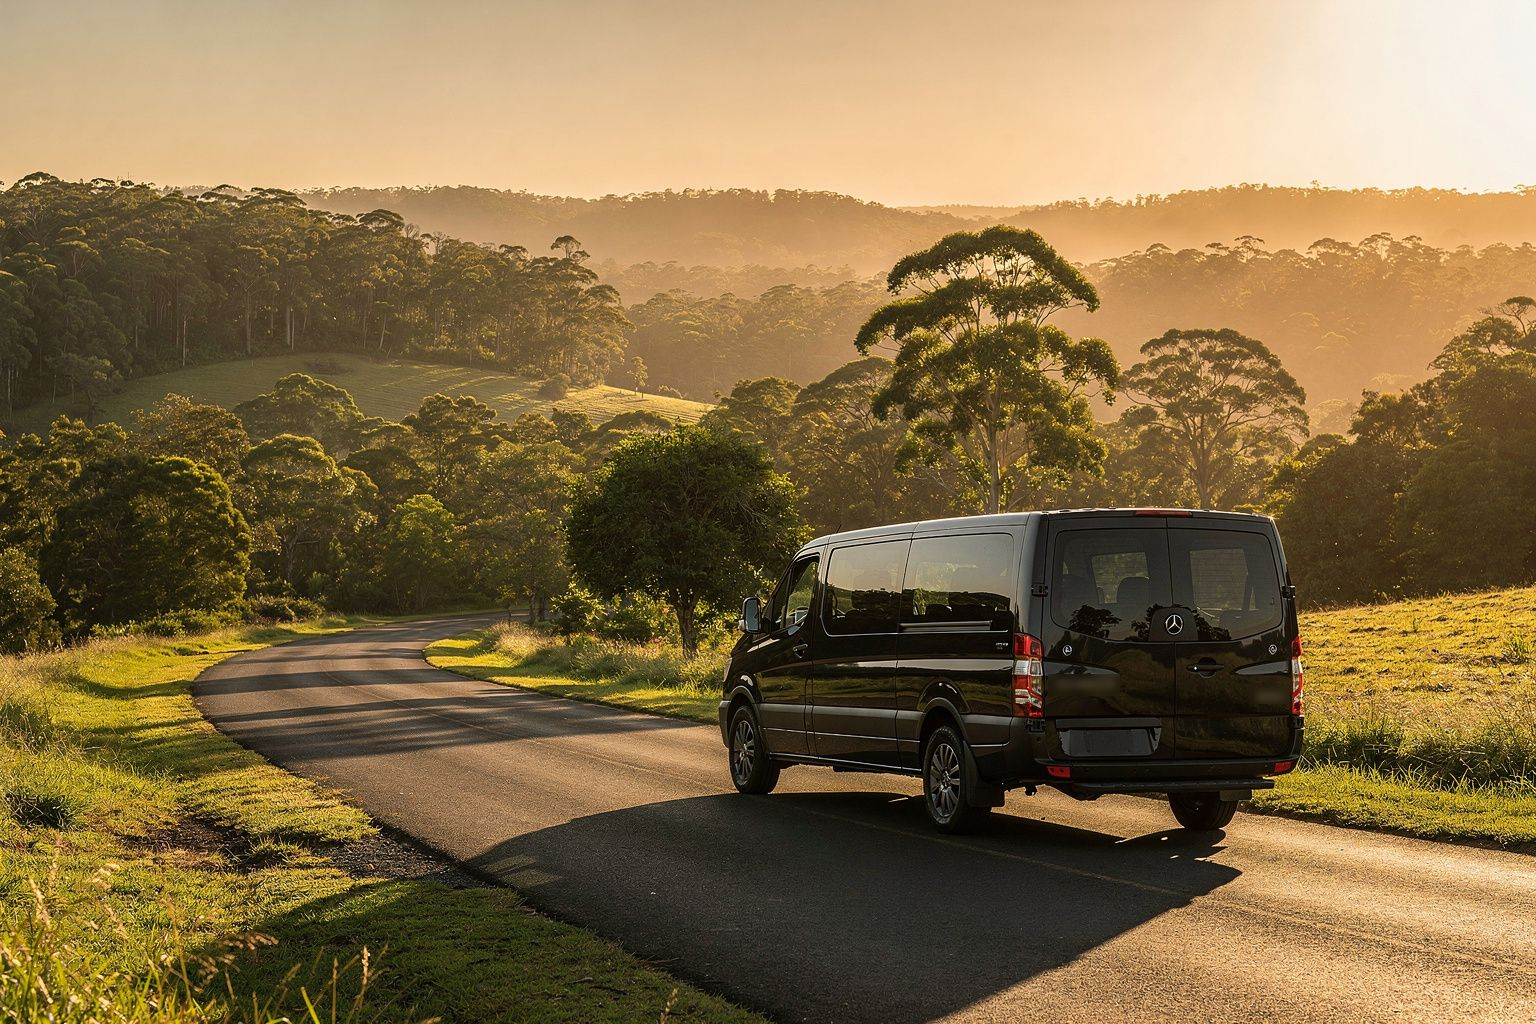
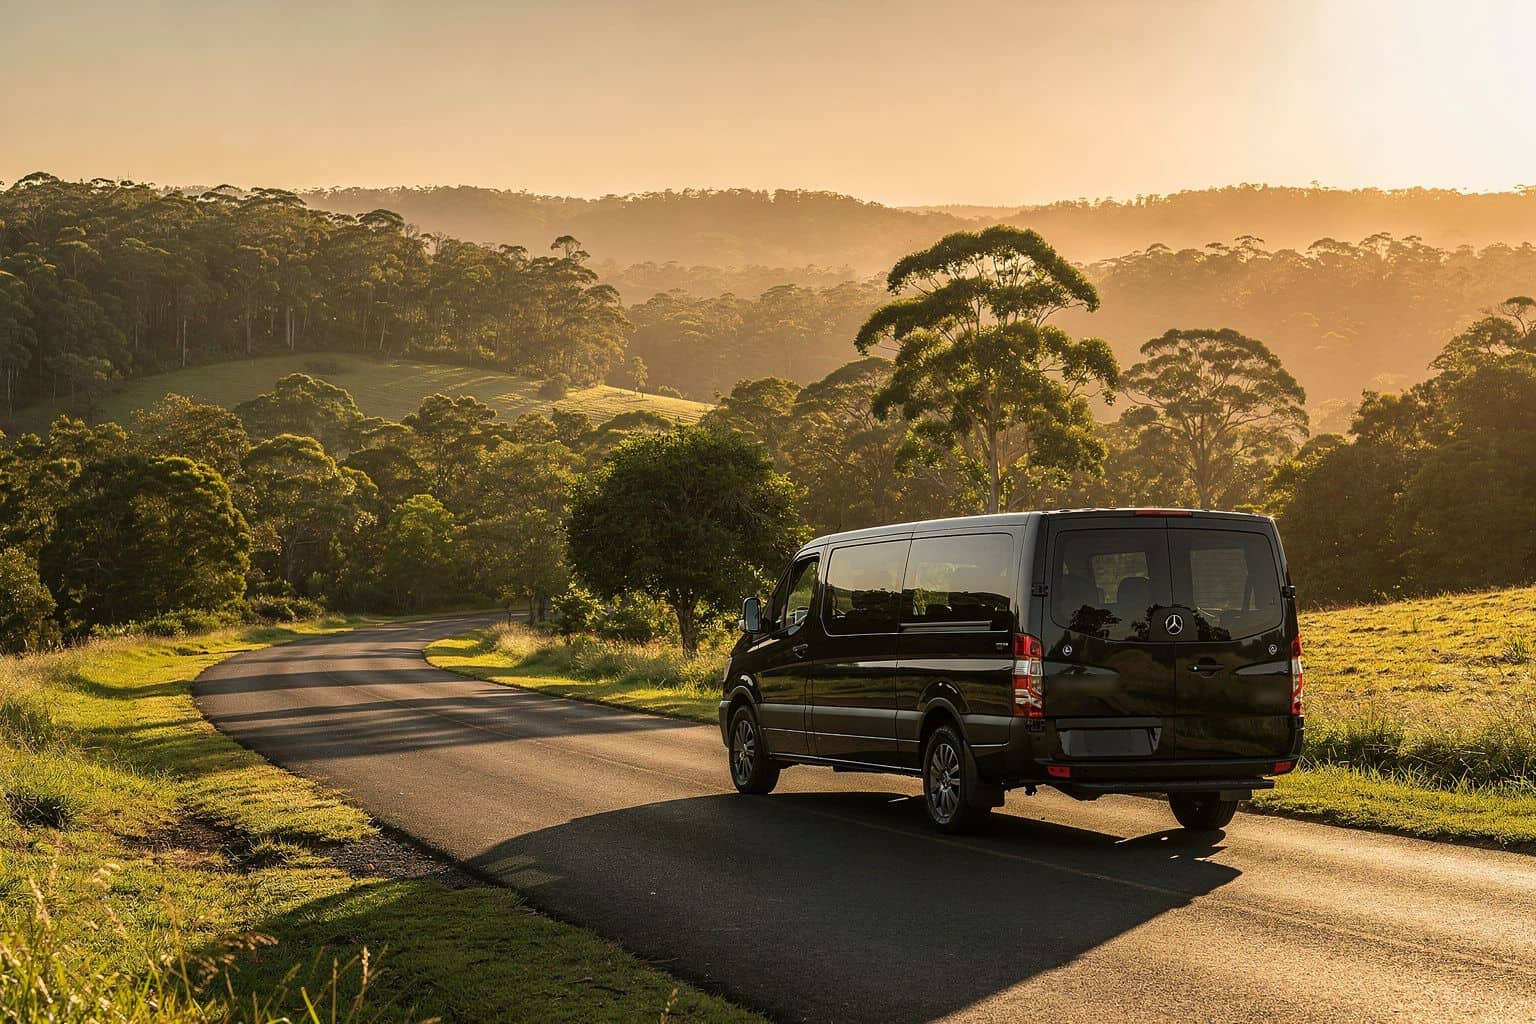
Site check tidy-ups: lighter photos, address search kept to our area, phone format, listings
From the 19 Nov 2026 whole-site check.

Photos: the ch-hero-dusk and wedding-cars sets are re-encoded from their
largest copy at the same names and pixel sizes (1558 kB to 944 kB in total;
the phone sizes go 131 to 73 kB and 136 to 78 kB). No page markup changes.

Address search: Google suggestions on the booking form and the agent portal
are limited to south-east Queensland and northern NSW (GP_AREA), on both the
suggestion list and the street-address boxes. Without it a hotel name or a
street returned Sydney first. Suggestions only - the suburb list, fares and
what can be booked are untouched.

Phone: 0481 437 772 is written +61 481 437 772 on the home, prices, charters
and partners pages.

Listings: two descriptions (Surfers Paradise route page, Sunshine Coast in
build-suburbs.js) and one blog title shortened so search results show them
whole. No price or fact changed.

diff --git a/gold-coast-airport-to-surfers-paradise.html b/gold-coast-airport-to-surfers-paradise.html
@@ -4,20 +4,20 @@
 <meta charset="utf-8">
 <meta name="viewport" content="width=device-width,initial-scale=1">
 <title>Coolangatta (Gold Coast) Airport to Surfers Paradise | $125</title>
-<meta name="description" content="Coolangatta Airport, also called Gold Coast Airport or OOL, to Surfers Paradise: 22 km, about 28 minutes, $125 per vehicle. Up to 14 passengers in one Sprinter. Fixed price, flight tracked.">
+<meta name="description" content="Coolangatta (Gold Coast) Airport, OOL, to Surfers Paradise: 22 km, about 28 minutes, $125 per vehicle. Fixed price, flight tracked, up to 14 in one Sprinter.">
 <link rel="canonical" href="https://www.skytransfers.com.au/gold-coast-airport-to-surfers-paradise.html">
 <meta name="robots" content="index,follow">
 <meta name="theme-color" content="#101828">
 <meta property="og:type" content="website">
 <meta property="og:site_name" content="Sky Transfers">
 <meta property="og:title" content="Coolangatta (Gold Coast) Airport to Surfers Paradise | $125">
-<meta property="og:description" content="Coolangatta Airport, also called Gold Coast Airport or OOL, to Surfers Paradise: 22 km, about 28 minutes, $125 per vehicle. Up to 14 passengers in one Sprinter. Fixed price, flight tracked.">
+<meta property="og:description" content="Coolangatta (Gold Coast) Airport, OOL, to Surfers Paradise: 22 km, about 28 minutes, $125 per vehicle. Fixed price, flight tracked, up to 14 in one Sprinter.">
 <meta property="og:url" content="https://www.skytransfers.com.au/gold-coast-airport-to-surfers-paradise.html">
 <meta property="og:locale" content="en_AU">
 <meta property="og:image" content="https://www.skytransfers.com.au/logo.png">
 <meta name="twitter:card" content="summary_large_image">
 <meta name="twitter:title" content="Coolangatta (Gold Coast) Airport to Surfers Paradise | $125">
-<meta name="twitter:description" content="Coolangatta Airport, also called Gold Coast Airport or OOL, to Surfers Paradise: 22 km, about 28 minutes, $125 per vehicle. Up to 14 passengers in one Sprinter. Fixed price, flight tracked.">
+<meta name="twitter:description" content="Coolangatta (Gold Coast) Airport, OOL, to Surfers Paradise: 22 km, about 28 minutes, $125 per vehicle. Fixed price, flight tracked, up to 14 in one Sprinter.">
 <meta name="twitter:image" content="https://www.skytransfers.com.au/logo.png">
 <link rel="icon" href="/favicon.ico" sizes="any">
 <link rel="apple-touch-icon" href="/apple-touch-icon.png">

diff --git a/index.html b/index.html
@@ -1454,6 +1454,13 @@ document.addEventListener("click", function(e){
    which is what keeps Places billed per session rather than per keystroke. */
 
 var GP = { svc: null, det: null, token: null };
+/* Address suggestions are kept to where we drive: south-east Queensland and
+   northern NSW, roughly Hervey Bay down to Yamba and west to Dalby. Without
+   this Google ranked Sydney first for a hotel name or a street ("Marriott",
+   "12 George St"). It limits suggestions only - the suburb list, the fares and
+   what can be booked are untouched, and a place outside it is still quoted by
+   hand on the phone. */
+var GP_AREA = window.GP_AREA = { south: -30.0, west: 150.5, north: -25.0, east: 153.75 };   /* on window too: the street-address boxes are set up by a later script */
 
 /* Suburbs Google names differently from our rate tables. */
 var GP_ALIAS = {
@@ -1602,6 +1609,7 @@ function attachAC(inputId, listId, onPick){
     GP.svc.getPlacePredictions({
       input: q,
       componentRestrictions: { country: "au" },
+      locationRestriction: GP_AREA,
       sessionToken: gpToken()
     }, function(preds, status){
       gpSignal(status);
@@ -2681,7 +2689,7 @@ function buildRequest(){
     <div class="fact"><span class="k">Coverage</span><span class="v">421<!--c:total--> places</span><span class="s">Gold Coast, Brisbane, Tweed &amp; Byron</span></div>
     <div class="fact"><span class="k">Booking</span><span class="v">Online to 6 h</span><span class="s">Free cancellation to 24 h</span></div>
     <div class="fact"><span class="k">Waiting</span><span class="v">30 / 60 min</span><span class="s">Domestic / international</span></div>
-    <div class="fact"><span class="k">Contact</span><span class="v">24/7</span><span class="s">Phone or WhatsApp 0481 437 772</span></div>
+    <div class="fact"><span class="k">Contact</span><span class="v">24/7</span><span class="s">Phone or WhatsApp +61 481 437 772</span></div>
   </div>
 </section>
 
@@ -2937,6 +2945,7 @@ window.initGPlaces = function(){
       if(!el) return;
       var ac = new google.maps.places.Autocomplete(el, {
         componentRestrictions: { country: "au" },
+        bounds: window.GP_AREA, strictBounds: !!window.GP_AREA,
         fields: ["formatted_address", "name"],
         types: ["geocode", "establishment"]
       });

diff --git a/agent.html b/agent.html
@@ -1450,6 +1450,13 @@
      the zone fare applies; otherwise it keeps Google's suburb and its
      coordinates and is priced by road distance, as on the website. */
   var GP = { svc: null, det: null, token: null };
+  /* Address suggestions are kept to where we drive: south-east Queensland and
+     northern NSW, roughly Hervey Bay down to Yamba and west to Dalby. Without
+     this Google ranked Sydney first for a hotel name or a street ("Marriott",
+     "12 George St"). It limits suggestions only - the suburb list, the fares and
+     what can be booked are untouched, and a place outside it is still quoted by
+     hand on the phone. */
+  var GP_AREA = window.GP_AREA = { south: -30.0, west: 150.5, north: -25.0, east: 153.75 };
   var GP_ALIAS = { "brisbane airport": BNE, "brisbane airport (bne)": BNE, "gold coast airport": OOL,
                    "coolangatta airport": OOL, "gold coast airport (ool)": OOL, "pinkenba": CRUISE };
   /* Google calls the CBD "Brisbane City" (or plain "Brisbane"); the fare tables
@@ -1555,7 +1562,7 @@
     }
     function predict(q){
       if (!gpReady() || input.value.trim() !== q) return;
-      GP.svc.getPlacePredictions({ input: q, componentRestrictions: { country: "au" }, sessionToken: gpToken() }, function(preds, status){
+      GP.svc.getPlacePredictions({ input: q, componentRestrictions: { country: "au" }, locationRestriction: GP_AREA, sessionToken: gpToken() }, function(preds, status){
         gpSignal(status);
         if (input.value.trim() !== q || status !== google.maps.places.PlacesServiceStatus.OK || !preds) return;
         var have = {}; items.forEach(function(it){ have[it.label.toLowerCase()] = 1; });
@@ -1963,6 +1970,7 @@ window.initGPlaces = function(){
     if(!el || !window.google || !google.maps || !google.maps.places) return;
     var ac = new google.maps.places.Autocomplete(el, {
       componentRestrictions: { country: "au" },
+      bounds: window.GP_AREA, strictBounds: !!window.GP_AREA,
       fields: ["formatted_address", "name"],
       types: ["geocode", "establishment"]
     });

diff --git a/build-suburbs.js b/build-suburbs.js
@@ -1022,7 +1022,7 @@ const REGIONS = [
   {
     slug: 'sunshine-coast-airport-transfers', name: 'Sunshine Coast', zones: ['SC1', 'SC2', 'SC3', 'SC4'],
     title: 'Sunshine Coast Airport Transfers | To and From Brisbane',
-    desc: 'Sunshine Coast to Brisbane Airport and back, from $280 per vehicle: Caloundra, Mooloolaba, Maroochydore, Coolum and Noosa. One fare per vehicle, not per person, tolls and GST in.',
+    desc: 'Sunshine Coast to Brisbane Airport and back, from $280 per vehicle, not per person: Caloundra, Mooloolaba, Maroochydore, Coolum, Noosa. Tolls and GST included.',
     h1: 'Sunshine Coast airport transfers, fixed price',
     lead: 'Private chauffeur transfers between Brisbane Airport (BNE) and every Sunshine Coast suburb we price, from Caloundra to Noosa. One fixed fare per vehicle, published below, the same at 4am as at 4pm.',
     notes: [

diff --git a/partners.html b/partners.html
@@ -634,7 +634,7 @@
     <div class="why"><h3>One fixed price per vehicle</h3><p>No surge, no after-hours surcharge, and tolls are included.</p></div>
     <div class="why"><h3>Arranged before the day</h3><p>The flight is tracked and the driver and vehicle are confirmed in advance. Your clients are met by professional, vetted drivers.</p></div>
     <div class="why"><h3>Waiting time included</h3><p>30 minutes after landing for domestic flights, 60 minutes for international arrivals, 15 minutes for other pick-ups.</p></div>
-    <div class="why"><h3>Real people, 24/7</h3><p>Call <a href="tel:+61481437772">0481 437 772</a> at any hour and a person answers.</p></div>
+    <div class="why"><h3>Real people, 24/7</h3><p>Call <a href="tel:+61481437772">+61 481 437 772</a> at any hour and a person answers.</p></div>
   </div>
 </section>
 

diff --git a/prices.html b/prices.html
@@ -674,7 +674,7 @@
     <div class="fact"><span class="k">Surge</span><span class="v">Never</span><span class="s">No after-hours or late-night charge</span></div>
     <div class="fact"><span class="k">Returns</span><span class="v">10% off</span><span class="s">Book both legs online</span></div>
     <div class="fact"><span class="k">Booking</span><span class="v">Online to 6 h</span><span class="s">Free cancellation to 24 h</span></div>
-    <div class="fact"><span class="k">Contact</span><span class="v">24/7</span><span class="s">Phone or WhatsApp 0481 437 772</span></div>
+    <div class="fact"><span class="k">Contact</span><span class="v">24/7</span><span class="s">Phone or WhatsApp +61 481 437 772</span></div>
   </div>
 </section>
 <!-- generated by make-prices-page.pl from the booking engine's rate tables -->

diff --git a/charters.html b/charters.html
@@ -871,7 +871,7 @@
     <div class="fact"><span class="k">Half / full day</span><span class="v">4 h / 8 h</span><span class="s">Driver, fuel, tolls, GST included</span></div>
     <div class="fact"><span class="k">Surcharge</span><span class="v">None</span><span class="s">No after-hours or late-night charge</span></div>
     <div class="fact"><span class="k">Quote</span><span class="v">Usually ~1 h</span><span class="s">Fixed and in writing</span></div>
-    <div class="fact"><span class="k">Contact</span><span class="v">24/7</span><span class="s">Phone or WhatsApp 0481 437 772</span></div>
+    <div class="fact"><span class="k">Contact</span><span class="v">24/7</span><span class="s">Phone or WhatsApp +61 481 437 772</span></div>
   </div>
 </section>
 

diff --git a/blog/brisbane-airport-domestic-or-international-pickup.html b/blog/brisbane-airport-domestic-or-international-pickup.html
@@ -3,7 +3,7 @@
 <head>
 <meta charset="utf-8">
 <meta name="viewport" content="width=device-width,initial-scale=1">
-<title>Brisbane Airport Transfer Between Terminals | Domestic to International</title>
+<title>Brisbane Airport Terminal Transfer | Domestic to International</title>
 <meta name="description" content="Brisbane Airport's two terminals are four kilometres apart. The free transfer bus, the $5 Airtrain, and when a private car between terminals is worth it.">
 <link rel="canonical" href="https://www.skytransfers.com.au/blog/brisbane-airport-domestic-or-international-pickup.html">
 <meta name="robots" content="index,follow">
